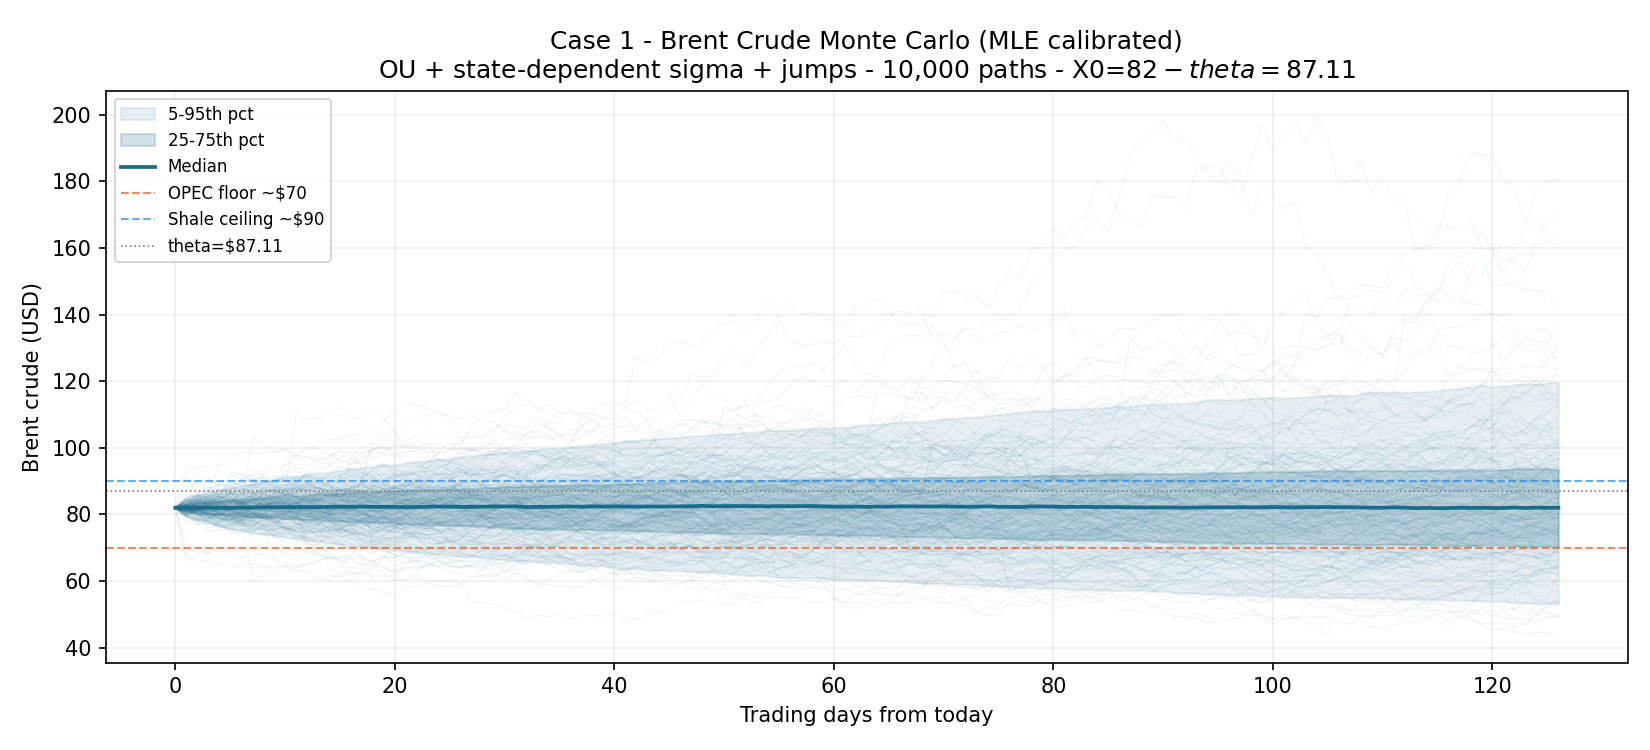
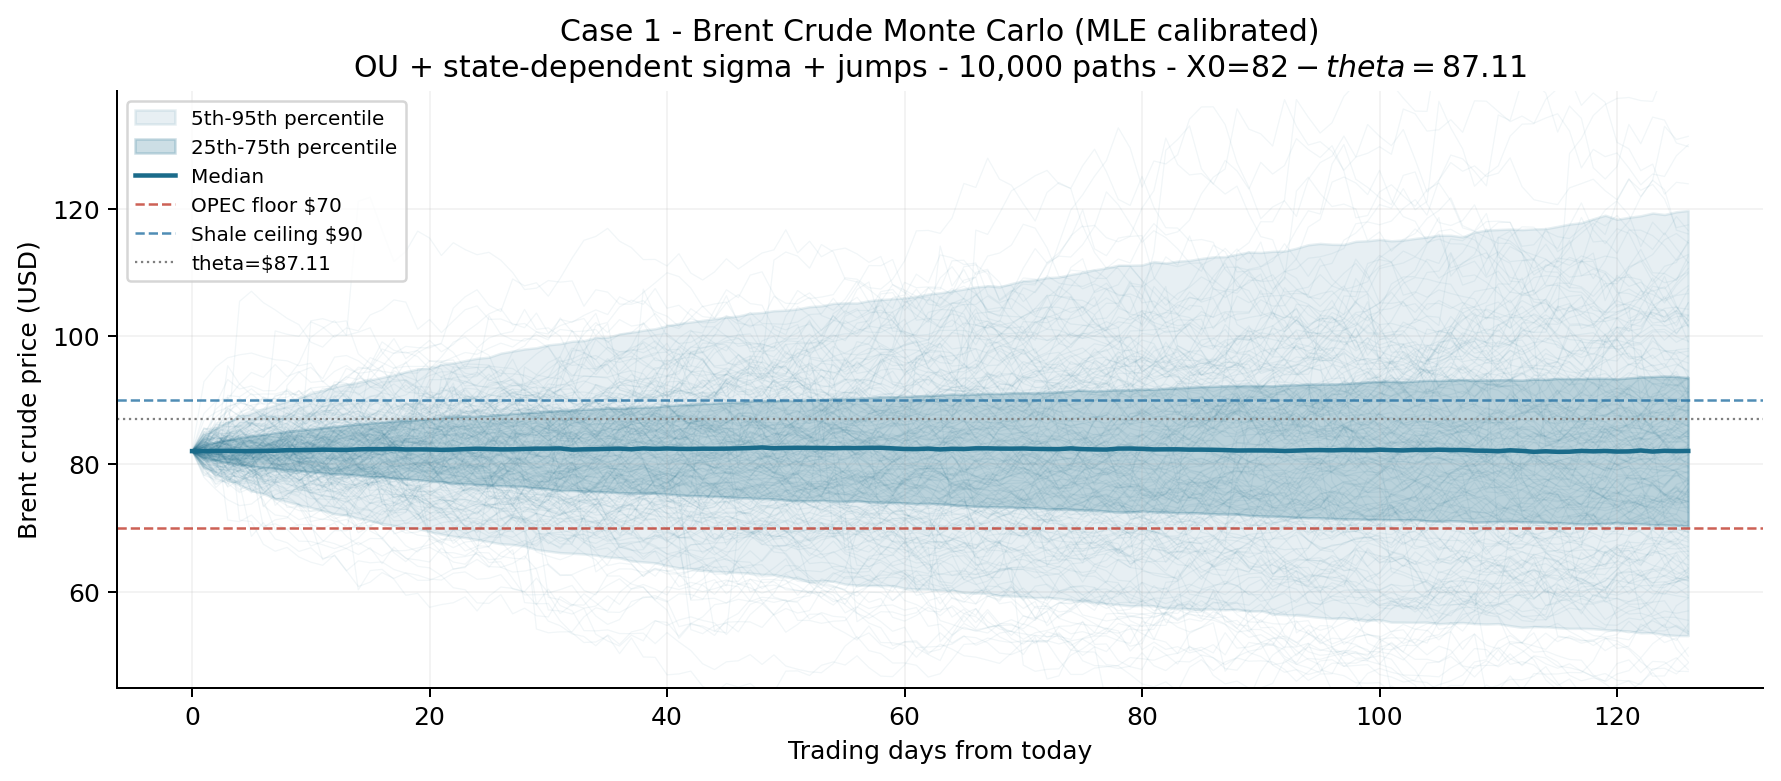
refactor: case01 run.py merged with distribution plot, plot_distribution.py removed

diff --git a/cases/01_oil_opec/run.py b/cases/01_oil_opec/run.py
@@ -1,7 +1,14 @@
 """
 cases/01_oil_opec/run.py
-Reads calibrated parameters from calibration/params.json.
-Falls back to prior values if calibration has not been run.
+
+Entry point for Case 1. Reads calibrated parameters from calibration/params.json.
+Produces:
+  1. results/paths.png          — Monte Carlo path fan
+  2. results/prob_table.csv     — Scenario probability table
+  3. results/distribution_comparison.png — GE SDE vs GBM distribution
+
+Run from repo root:
+    python cases/01_oil_opec/run.py
 """
 
 import sys, os, json
@@ -9,6 +16,7 @@ import numpy as np
 import matplotlib
 matplotlib.use('Agg')
 import matplotlib.pyplot as plt
+from scipy.stats import gaussian_kde, kurtosis
 import pandas as pd
 
 sys.path.insert(0, os.path.join(os.path.dirname(__file__), '..', '..'))
@@ -21,6 +29,7 @@ _mod = importlib.util.module_from_spec(_spec)
 _spec.loader.exec_module(_mod)
 OilOPECModel = _mod.OilOPECModel
 
+# ── Parameters ────────────────────────────────────────────────
 PARAMS_PATH = os.path.join(os.path.dirname(__file__), '..', '..', 'calibration', 'params.json')
 with open(PARAMS_PATH) as f:
     raw = json.load(f)
@@ -32,13 +41,13 @@ if calibrated:
     print(f"MLE-calibrated parameters (fitted {calibrated}, n={raw.get('n_obs')} obs)")
 else:
     print("Prior parameters — run calibration/estimate.py to fit from data")
-
 print(f"  theta=${raw['theta_price']}  kappa={PARAMS['kappa']}  sigma0={PARAMS['sigma0']}  alpha={PARAMS['alpha']}")
 print(f"  lambda={PARAMS['lam']}  mu_j={PARAMS['mu_j']}  sigma_j={PARAMS['sigma_j']}\n")
 
-X0=np.log(82.0); T=0.5; dt=1/252; N=10_000
 os.makedirs(os.path.join(os.path.dirname(__file__), 'results'), exist_ok=True)
 RESULTS = os.path.join(os.path.dirname(__file__), 'results')
+
+X0=np.log(82.0); T=0.5; dt=1/252; N=10_000
 
 model  = OilOPECModel(PARAMS)
 paths  = solve(model, X0, T, dt, N)
@@ -46,34 +55,134 @@ prices = np.exp(paths)
 n_steps= paths.shape[0]
 t_axis = np.linspace(0, T*252, n_steps)
 
-fig, ax = plt.subplots(figsize=(11,5))
+# ── 1. Path fan ───────────────────────────────────────────────
+fig, ax = plt.subplots(figsize=(10, 4.5))
 for i in np.random.choice(N, 200, replace=False):
-    ax.plot(t_axis, prices[:,i], color='#1a6b8a', alpha=0.06, linewidth=0.6)
+    ax.plot(t_axis, prices[:,i], color='#1a6b8a', alpha=0.06, linewidth=0.5)
 pcts = np.percentile(prices, [5,25,50,75,95], axis=1)
-ax.fill_between(t_axis, pcts[0], pcts[4], color='#1a6b8a', alpha=0.10, label='5-95th pct')
-ax.fill_between(t_axis, pcts[1], pcts[3], color='#1a6b8a', alpha=0.20, label='25-75th pct')
+ax.fill_between(t_axis, pcts[0], pcts[4], color='#1a6b8a', alpha=0.10, label='5th-95th percentile')
+ax.fill_between(t_axis, pcts[1], pcts[3], color='#1a6b8a', alpha=0.22, label='25th-75th percentile')
 ax.plot(t_axis, pcts[2], color='#1a6b8a', linewidth=1.8, label='Median')
-ax.axhline(70, color='#e05c2a', linewidth=1.0, linestyle='--', alpha=0.7, label='OPEC floor ~$70')
-ax.axhline(90, color='#2a8ae0', linewidth=1.0, linestyle='--', alpha=0.7, label='Shale ceiling ~$90')
-ax.axhline(raw['theta_price'], color='gray', linewidth=0.8, linestyle=':', label=f"theta=${raw['theta_price']}")
+ax.axhline(70,             color='#c0392b', linewidth=1.0, linestyle='--', alpha=0.8, label='OPEC floor $70')
+ax.axhline(90,             color='#2471a3', linewidth=1.0, linestyle='--', alpha=0.8, label='Shale ceiling $90')
+ax.axhline(raw['theta_price'], color='gray', linewidth=0.9, linestyle=':', label=f"theta=${raw['theta_price']}")
+y_lo = np.percentile(prices, 1) * 0.92
+y_hi = np.percentile(prices, 99) * 1.08
+ax.set_ylim(y_lo, y_hi)
+ax.set_xlabel('Trading days from today', fontsize=10)
+ax.set_ylabel('Brent crude price (USD)', fontsize=10)
 label = "MLE calibrated" if calibrated else "prior estimates"
-ax.set_xlabel('Trading days from today'); ax.set_ylabel('Brent crude (USD)')
 ax.set_title(f'Case 1 - Brent Crude Monte Carlo ({label})\nOU + state-dependent sigma + jumps - 10,000 paths - X0=$82 - theta=${raw["theta_price"]}')
-ax.legend(fontsize=8); ax.grid(True, alpha=0.2); plt.tight_layout()
-plt.savefig(os.path.join(RESULTS,'paths.png'), dpi=150); plt.close()
+ax.legend(fontsize=8, loc='upper left')
+ax.grid(True, alpha=0.15)
+ax.spines['top'].set_visible(False)
+ax.spines['right'].set_visible(False)
+plt.tight_layout()
+plt.savefig(os.path.join(RESULTS, 'paths.png'), dpi=180, bbox_inches='tight')
+plt.close()
 print('Saved: results/paths.png')
 
-rows=[]
-for label, day in [('30d',30),('60d',60),('90d',90)]:
+# ── 2. Probability table ──────────────────────────────────────
+rows = []
+for lbl, day in [('30d',30),('60d',60),('90d',90)]:
     px = prices[min(day, n_steps-1)]
-    rows.append({'horizon':label,
-                 'P(< $70)':f"{(px<70).mean():.1%}",
-                 'P(> $90)':f"{(px>90).mean():.1%}",
-                 'P(in band)':f"{((px>=70)&(px<=90)).mean():.1%}",
-                 'median':f"${np.median(px):.1f}",
-                 '5th pct':f"${np.percentile(px,5):.1f}",
-                 '95th pct':f"${np.percentile(px,95):.1f}"})
+    rows.append({'horizon': lbl,
+                 'P(< $70)': f"{(px<70).mean():.1%}",
+                 'P(> $90)': f"{(px>90).mean():.1%}",
+                 'P(in band)': f"{((px>=70)&(px<=90)).mean():.1%}",
+                 'median': f"${np.median(px):.1f}",
+                 '5th pct': f"${np.percentile(px,5):.1f}",
+                 '95th pct': f"${np.percentile(px,95):.1f}"})
 df = pd.DataFrame(rows)
 print(df.to_string(index=False))
-df.to_csv(os.path.join(RESULTS,'prob_table.csv'), index=False)
+df.to_csv(os.path.join(RESULTS, 'prob_table.csv'), index=False)
 print('Saved: results/prob_table.csv')
+
+# ── 3. Distribution comparison: GE SDE vs GBM ────────────────
+class GBMModel:
+    def __init__(self, sigma):
+        self.sigma = sigma
+    def drift(self, X, t):
+        return np.zeros_like(X)
+    def diffusion(self, X, t):
+        return np.full_like(X, self.sigma)
+    def jump(self, X, t, rng, dt):
+        return np.zeros_like(X)
+
+N2 = 50_000; DAY = 90
+sde_px = np.exp(solve(OilOPECModel(PARAMS),             X0, T, dt, N2, seed=42)[DAY])
+gbm_px = np.exp(solve(GBMModel(sigma=PARAMS["sigma0"]), X0, T, dt, N2, seed=42)[DAY])
+
+sde_below = (sde_px < 70).mean()
+sde_above = (sde_px > 90).mean()
+gbm_below = (gbm_px < 70).mean()
+gbm_above = (gbm_px > 90).mean()
+sde_ekurt = kurtosis(sde_px)
+gbm_ekurt = kurtosis(gbm_px)
+
+x     = np.linspace(28, 172, 1000)
+sde_d = gaussian_kde(sde_px, bw_method=0.10)(x)
+gbm_d = gaussian_kde(gbm_px, bw_method=0.10)(x)
+tail  = (x < 70) | (x > 90)
+
+fig, ax = plt.subplots(figsize=(11, 5.4))
+fig.patch.set_facecolor('white')
+ax.set_facecolor('white')
+
+ax.plot(x, gbm_d, color='#888888', linewidth=1.6, zorder=3, label='GBM (Black-Scholes)')
+ax.fill_between(x, gbm_d, color='#888888', alpha=0.15, zorder=2)
+ax.plot(x, sde_d, color='#1a5c7a', linewidth=1.8, zorder=4, label='GE SDE')
+ax.fill_between(x, sde_d, color='#1a5c7a', alpha=0.12, zorder=2)
+ax.fill_between(x, gbm_d, sde_d,
+                where=tail & (sde_d > gbm_d),
+                color='#b03a2e', alpha=0.55, zorder=5,
+                label='GE SDE excess tail mass')
+
+ax.axvline(70, color='#b03a2e', linewidth=0.9, linestyle='--', alpha=0.7, zorder=6)
+ax.axvline(90, color='#b03a2e', linewidth=0.9, linestyle='--', alpha=0.7, zorder=6)
+ax.text(70.8, 0.0014, '$70', color='#b03a2e', fontsize=8.5)
+ax.text(90.8, 0.0014, '$90', color='#b03a2e', fontsize=8.5)
+
+ax.legend(fontsize=9, loc='upper left', frameon=True,
+          framealpha=0.95, edgecolor='#dddddd')
+
+col_labels = ['Model', 'P(<$70)', 'P(>$90)', 'Tail total', 'Exc. kurt.']
+table_data = [
+    ['GE SDE', f"{sde_below:.1%}", f"{sde_above:.1%}", f"{sde_below+sde_above:.1%}", f"{sde_ekurt:.2f}"],
+    ['GBM',    f"{gbm_below:.1%}", f"{gbm_above:.1%}", f"{gbm_below+gbm_above:.1%}", f"{gbm_ekurt:.2f}"],
+]
+tbl = ax.table(cellText=table_data, colLabels=col_labels,
+               bbox=[0.50, 0.74, 0.49, 0.22])
+tbl.auto_set_font_size(False)
+tbl.set_fontsize(8.5)
+for (r, c), cell in tbl.get_celld().items():
+    cell.set_edgecolor('#cccccc')
+    cell.set_linewidth(0.5)
+    cell.PAD = 0.08
+    if r == 0:
+        cell.set_facecolor('#efefef')
+        cell.set_text_props(fontweight='bold', fontsize=8)
+    elif c == 0:
+        cell.set_facecolor('#f7f7f7')
+        cell.set_text_props(fontweight='bold', fontsize=8.5)
+    else:
+        cell.set_facecolor('white')
+        cell.set_text_props(fontsize=8.5)
+
+ax.set_xlabel('Brent crude price at 90-day horizon (USD)', fontsize=10, color='#333333')
+ax.set_ylabel('Probability density', fontsize=10, color='#333333')
+ax.set_title('Price distribution at 90 days — GE SDE vs GBM\n'
+             '50,000 paths   |   Starting price $82',
+             fontsize=10.5, color='#222222', pad=10)
+ax.set_xlim(28, 172)
+ax.set_ylim(bottom=0)
+ax.spines['top'].set_visible(False)
+ax.spines['right'].set_visible(False)
+ax.spines['left'].set_color('#cccccc')
+ax.spines['bottom'].set_color('#cccccc')
+ax.tick_params(colors='#555555', labelsize=9)
+ax.grid(axis='y', color='#eeeeee', linewidth=0.8, zorder=0)
+plt.tight_layout()
+plt.savefig(os.path.join(RESULTS, 'distribution_comparison.png'), dpi=200, bbox_inches='tight')
+plt.close()
+print('Saved: results/distribution_comparison.png')
